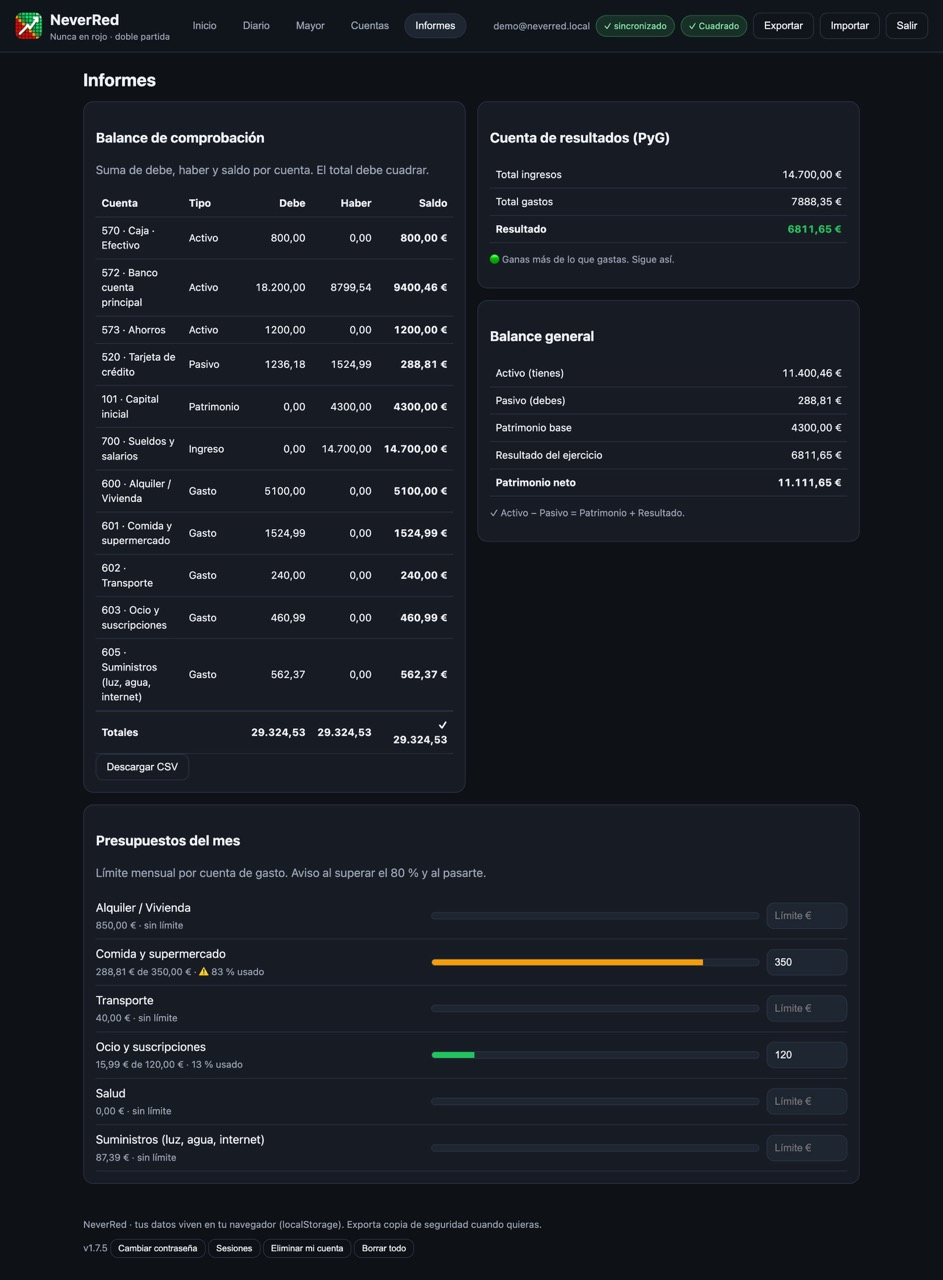
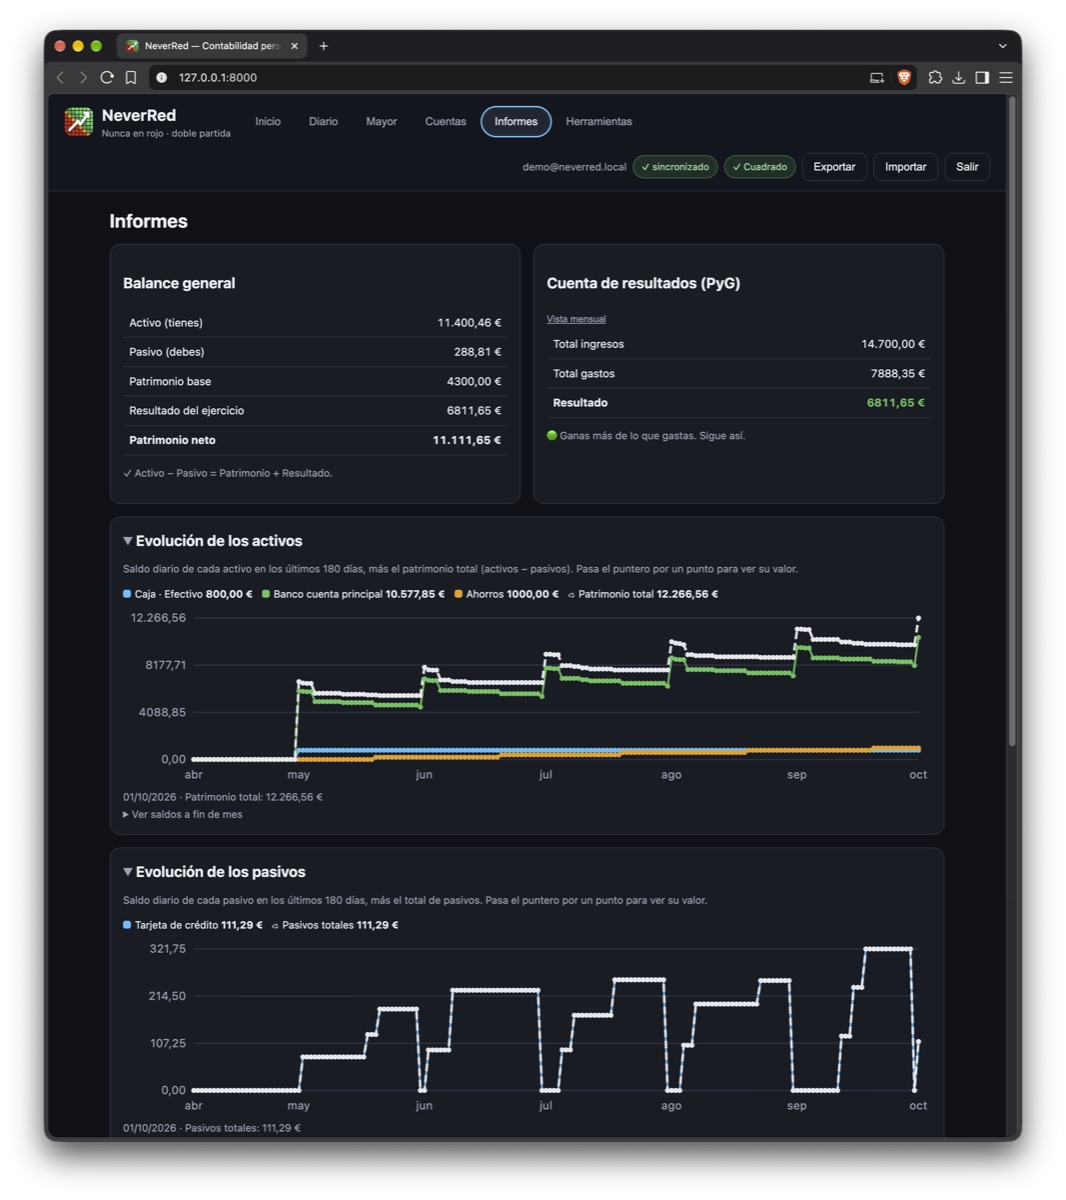
Capturas v2.6.0: Inicio y Herramientas, resto actualizadas

diff --git a/README.md b/README.md
@@ -129,9 +129,10 @@ python3 backend/seed_demo.py   # demo@neverred.local / DemoNeverRed2026
 ## Capturas
 
 ![Acceso](docs/NeverRed-Login.jpeg)
+![Inicio](docs/NeverRed-Inicio.jpeg)
 ![Libro diario](docs/NeverRed-Diario.jpeg)
-![Libro mayor](docs/NeverRed-Mayor.jpeg)
 ![Informes](docs/NeverRed-Informes.jpeg)
+![Herramientas](docs/NeverRed-Herramientas.jpeg)
 
 ## Reglas contables aplicadas
 
